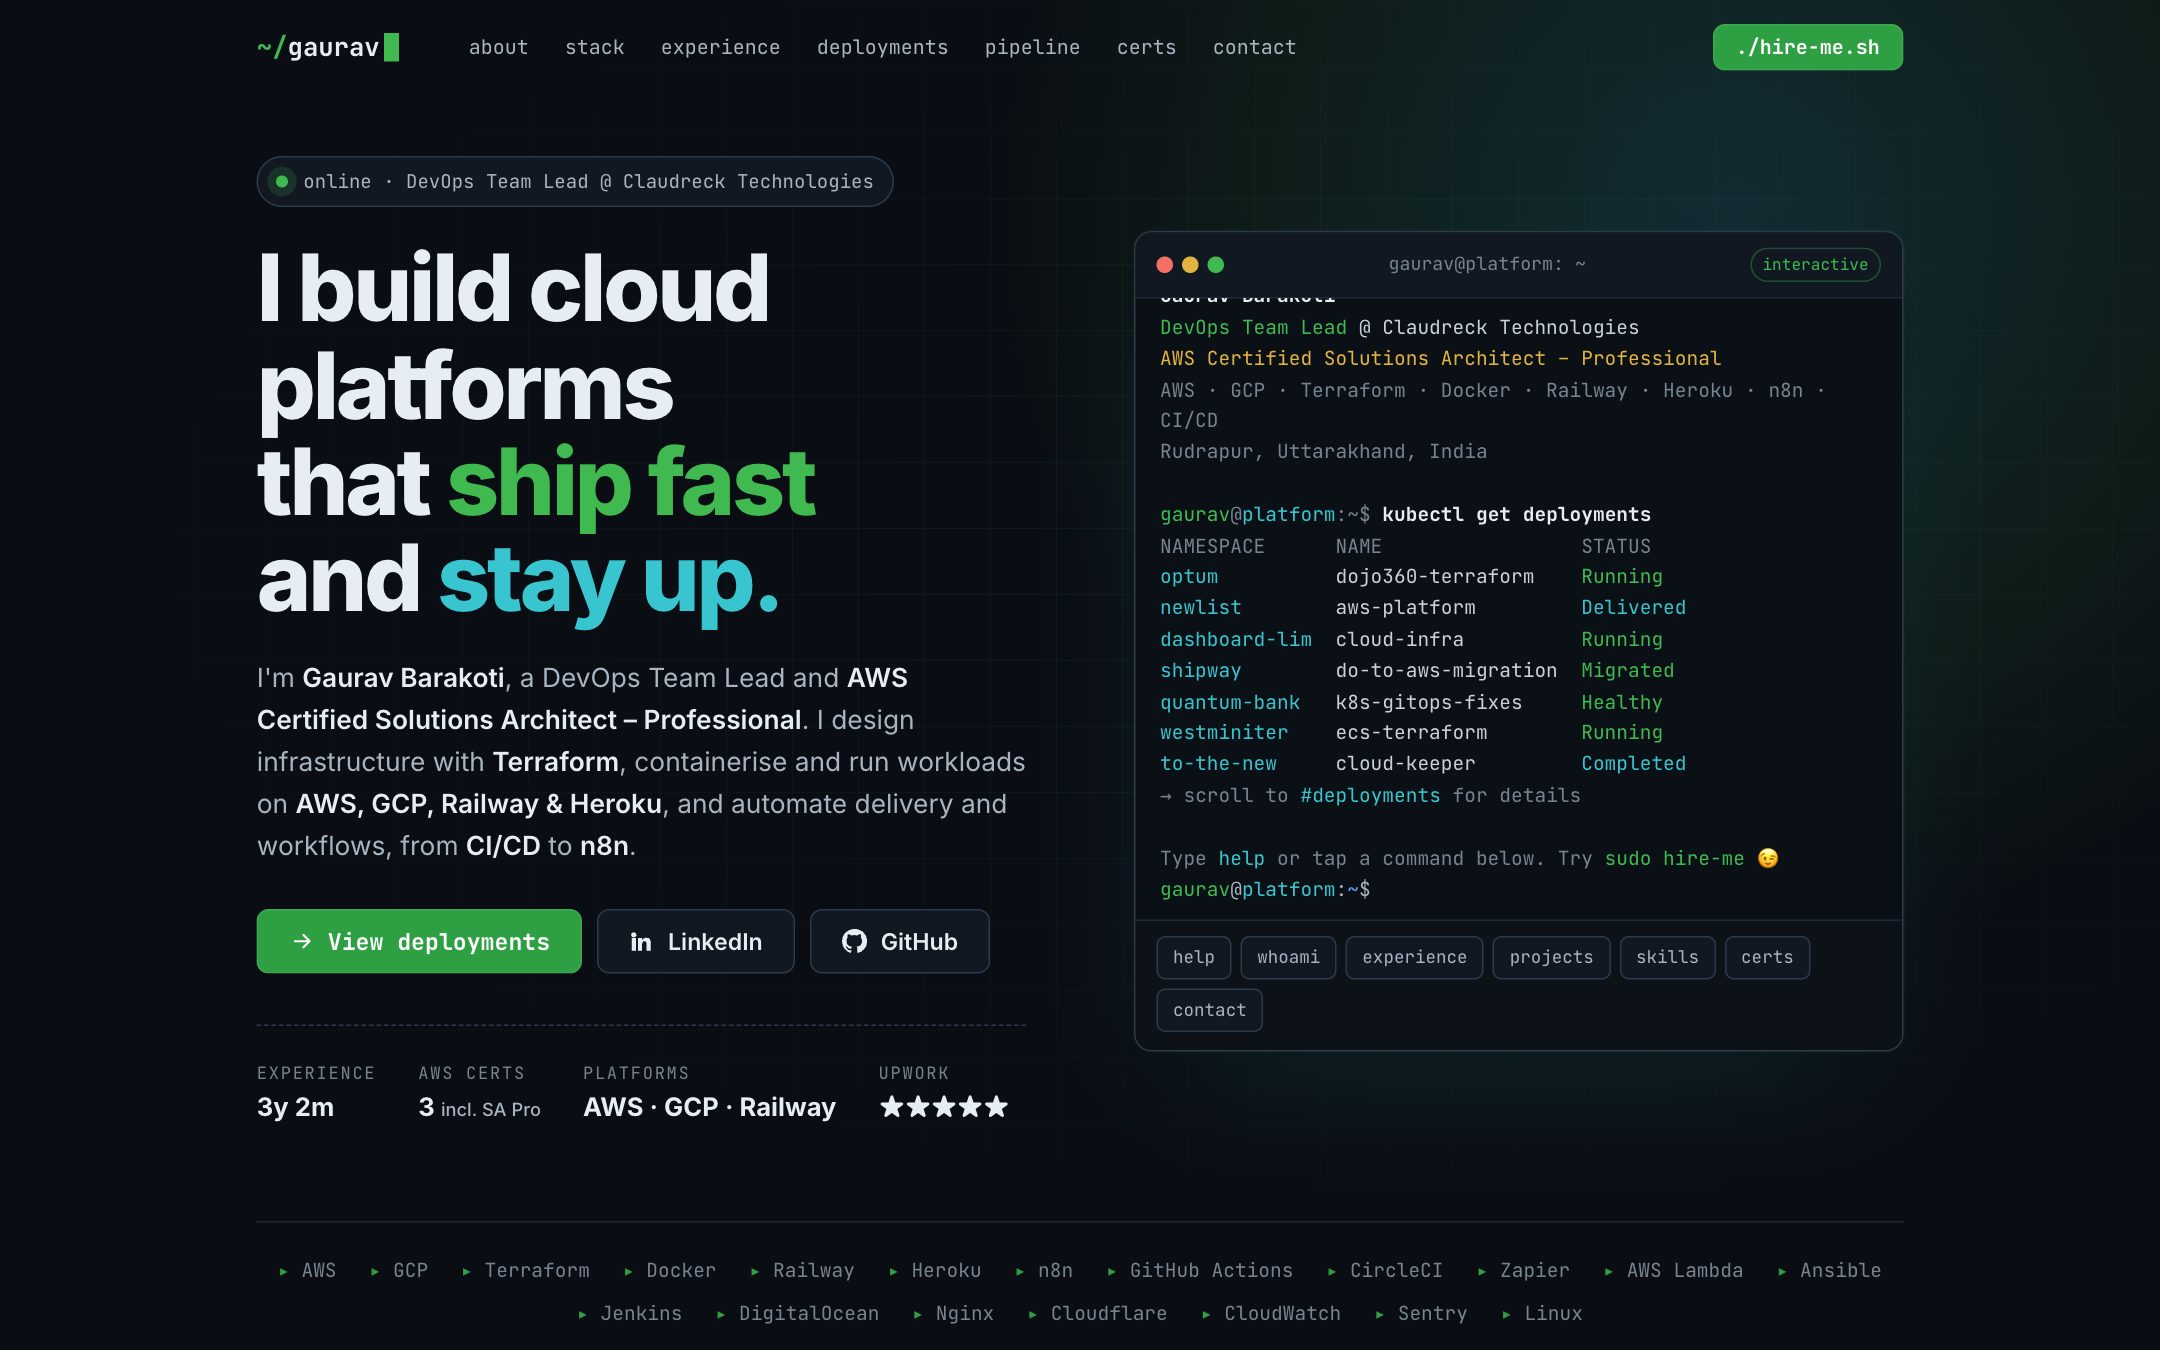
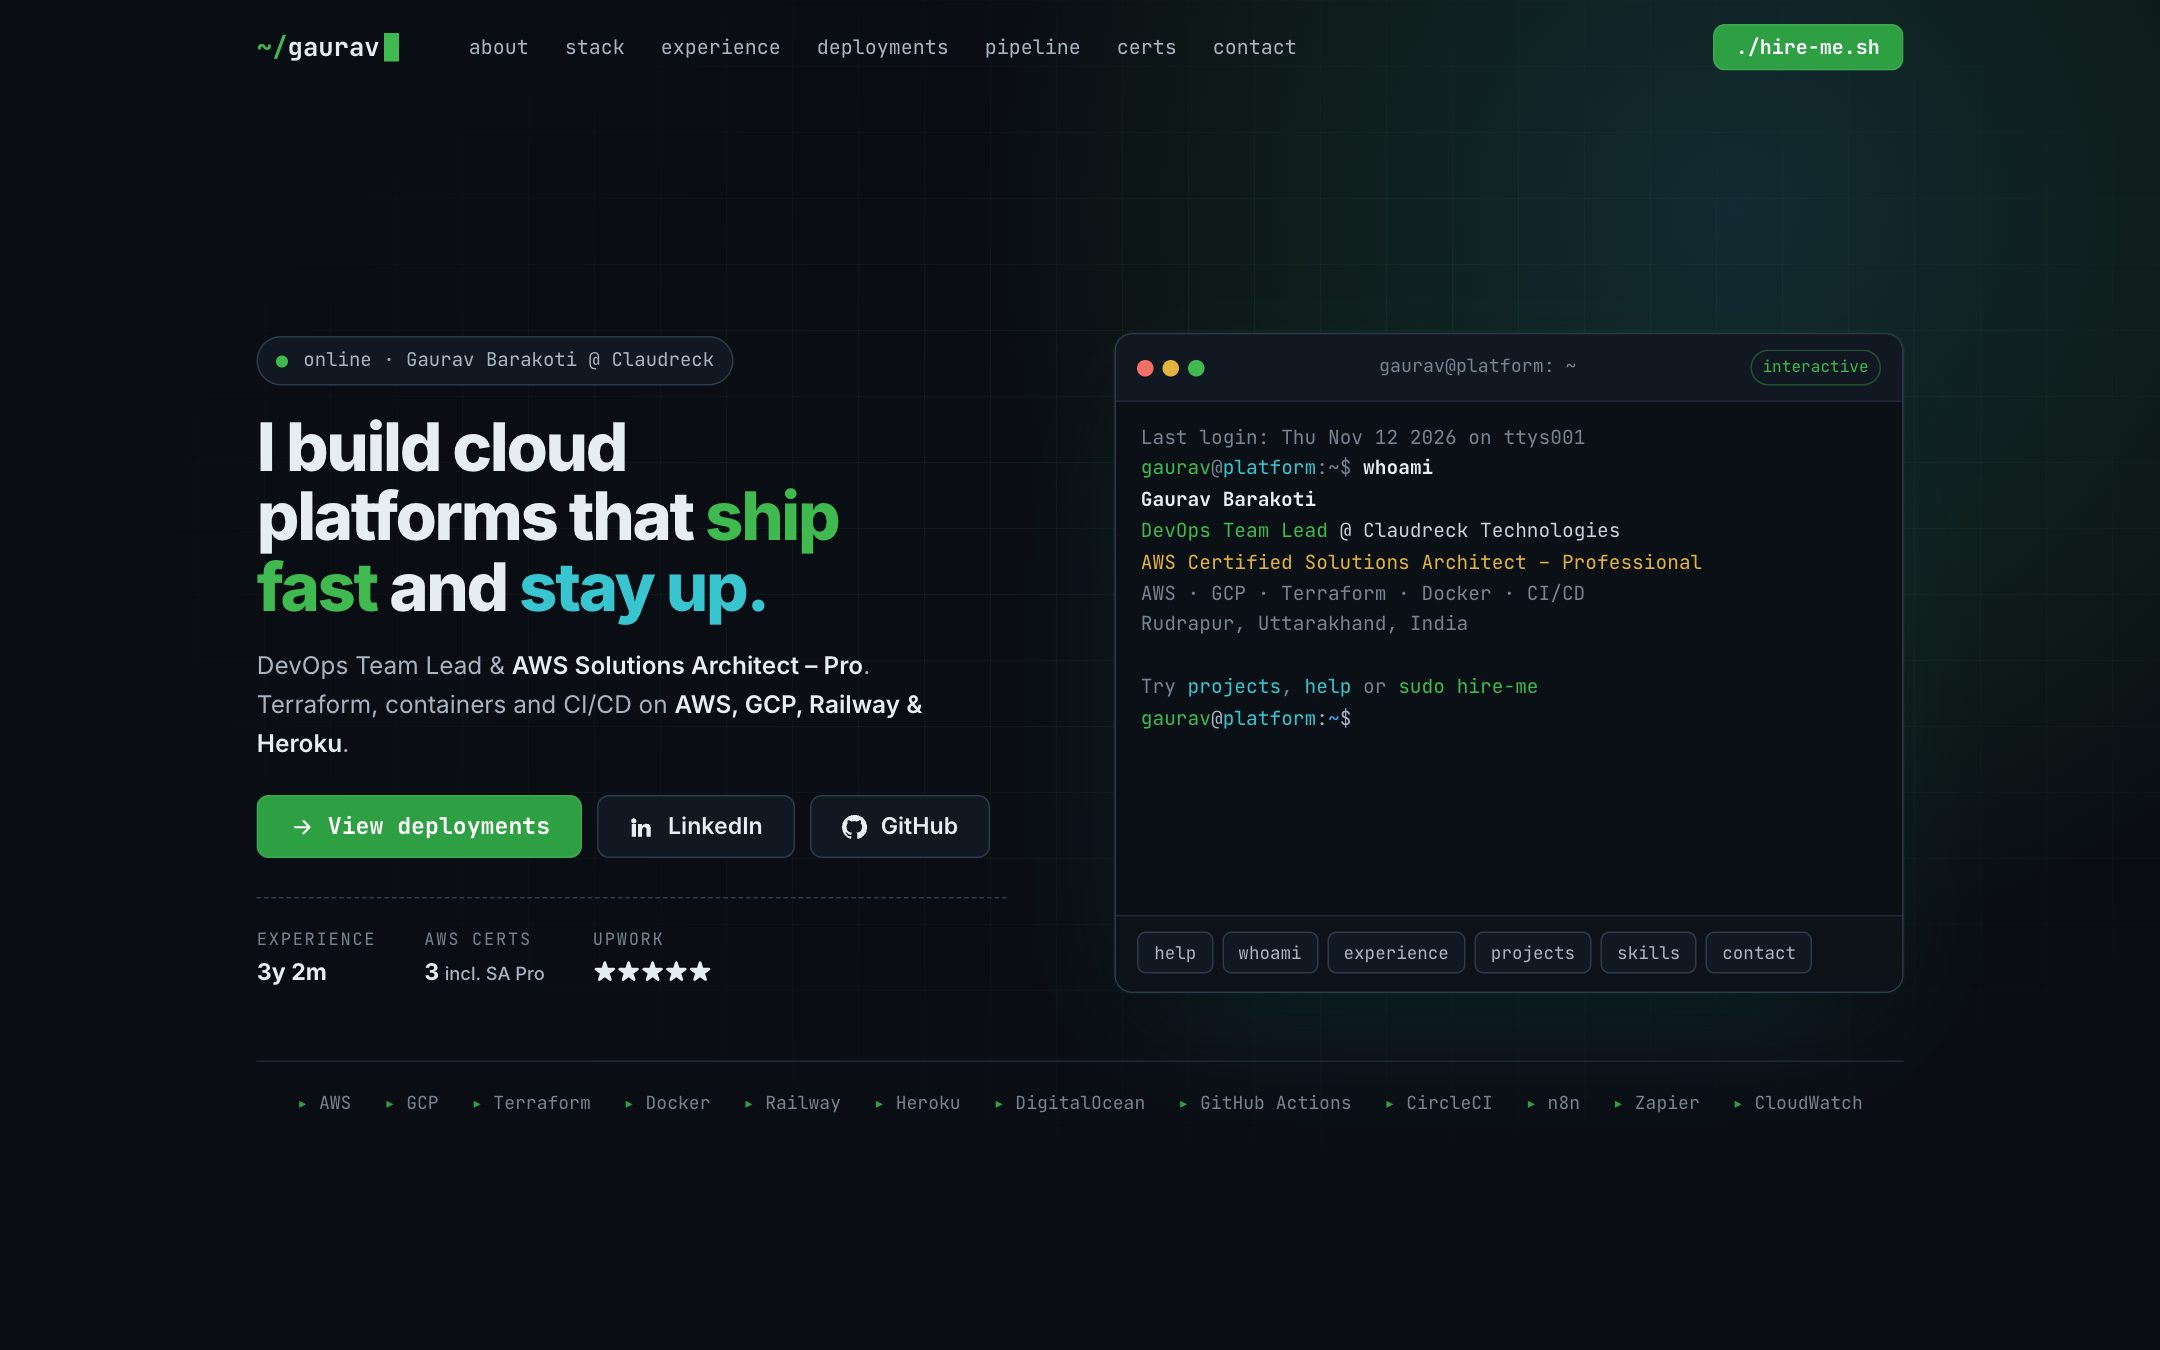
Compact hero: smaller headline, shorter intro, lighter terminal

diff --git a/assets/css/style.css b/assets/css/style.css
@@ -110,19 +110,19 @@ svg .fill { fill: currentColor; stroke: none; }
   mask-image: radial-gradient(ellipse 75% 65% at 60% 40%, #000 25%, transparent 75%);
 }
 .hero__glow { position: absolute; width: 70vw; height: 70vw; max-width: 1000px; max-height: 1000px; right: -15vw; top: -25vw; background: radial-gradient(circle, rgba(57,197,207,.16), rgba(63,185,80,.08) 45%, transparent 70%); }
-.hero__inner { display: grid; grid-template-columns: 1fr 1fr; gap: clamp(32px, 5vw, 88px); align-items: center; }
+.hero__inner { display: grid; grid-template-columns: 1fr 1.05fr; gap: clamp(32px, 5vw, 80px); align-items: center; }
 .status {
-  display: inline-flex; align-items: center; gap: 10px; padding: 6px 12px; border-radius: 999px;
-  border: 1px solid var(--border-2); background: var(--surface); font-family: var(--mono); font-size: .78rem; color: var(--text-2); margin-bottom: 22px;
+  display: inline-flex; align-items: center; gap: 10px; padding: 5px 12px; border-radius: 999px;
+  border: 1px solid var(--border-2); background: var(--surface); font-family: var(--mono); font-size: .78rem; color: var(--text-2); margin-bottom: 18px;
 }
 .status__dot { position: relative; width: 8px; height: 8px; border-radius: 50%; background: var(--green); box-shadow: 0 0 0 0 rgba(63,185,80,.6); animation: ping 2s infinite; }
 @keyframes ping { 70% { box-shadow: 0 0 0 8px rgba(63,185,80,0); } 100% { box-shadow: 0 0 0 0 rgba(63,185,80,0); } }
-.hero__title { font-size: clamp(2.3rem, 4.3vw, 4rem); font-weight: 800; letter-spacing: -0.035em; line-height: 1.04; text-wrap: balance; }
-.hero__lead { margin-top: 20px; max-width: 36rem; color: var(--text-2); font-size: 1.08rem; }
-.hero__ctas { display: flex; flex-wrap: wrap; gap: 10px; margin-top: 28px; }
-.facts { display: grid; grid-template-columns: repeat(4, auto); justify-content: start; gap: 10px 28px; margin-top: 34px; padding-top: 22px; border-top: 1px dashed var(--border-2); }
+.hero__title { font-size: clamp(2rem, 3.1vw, 2.9rem); font-weight: 800; letter-spacing: -0.035em; line-height: 1.04; text-wrap: balance; }
+.hero__lead { margin-top: 16px; max-width: 30rem; color: var(--text-2); font-size: 1rem; }
+.hero__ctas { display: flex; flex-wrap: wrap; gap: 10px; margin-top: 22px; }
+.facts { display: grid; grid-template-columns: repeat(3, auto); justify-content: start; gap: 10px 32px; margin-top: 26px; padding-top: 18px; border-top: 1px dashed var(--border-2); }
 .facts dt { font-family: var(--mono); font-size: .7rem; color: var(--muted); text-transform: uppercase; letter-spacing: .1em; }
-.facts dd { font-weight: 700; font-size: 1.05rem; }
+.facts dd { font-weight: 700; font-size: .95rem; }
 .facts small { font-weight: 500; font-size: .75rem; color: var(--text-2); }
 
 /* Terminal */
@@ -134,7 +134,7 @@ svg .fill { fill: currentColor; stroke: none; }
 .term__dots i:nth-child(3) { background: #3fb950; }
 .term__title { flex: 1; text-align: center; font-family: var(--mono); font-size: .75rem; color: var(--muted); }
 .term__hint { font-family: var(--mono); font-size: .66rem; color: var(--green); border: 1px solid rgba(63,185,80,.35); padding: 2px 7px; border-radius: 999px; }
-.term__body { height: clamp(300px, 46vh, 440px); overflow-y: auto; overflow-x: auto; padding: 14px 16px 10px; font-family: var(--mono); font-size: .8rem; line-height: 1.6; color: #c9d1d9; overscroll-behavior: contain; cursor: text; scrollbar-width: thin; scrollbar-color: var(--border-2) transparent; }
+.term__body { height: clamp(260px, 38vh, 360px); overflow-y: auto; overflow-x: auto; padding: 14px 16px 10px; font-family: var(--mono); font-size: .8rem; line-height: 1.6; color: #c9d1d9; overscroll-behavior: contain; cursor: text; scrollbar-width: thin; scrollbar-color: var(--border-2) transparent; }
 .term__body:focus-visible { outline-offset: -2px; }
 #termOut > div { white-space: pre-wrap; word-break: break-word; }
 #termOut > div.nw { white-space: pre; word-break: normal; }
@@ -155,7 +155,7 @@ svg .fill { fill: currentColor; stroke: none; }
 .term__chips button { padding: 4px 10px; border-radius: 6px; border: 1px solid var(--border-2); background: var(--surface); font-family: var(--mono); font-size: .72rem; color: var(--text-2); transition: color .2s, border-color .2s; }
 .term__chips button:hover { color: var(--green); border-color: var(--green); }
 
-.marquee { display: flex; flex-wrap: wrap; justify-content: center; gap: 8px 22px; margin-top: clamp(40px, 7vh, 72px); padding-top: 22px; border-top: 1px solid var(--border); font-family: var(--mono); font-size: .8rem; color: var(--muted); }
+.marquee { display: flex; flex-wrap: wrap; justify-content: center; gap: 8px 22px; margin-top: clamp(32px, 5vh, 56px); padding-top: 18px; border-top: 1px solid var(--border); font-family: var(--mono); font-size: .74rem; color: var(--muted); }
 .marquee li::before { content: "▸ "; color: var(--green-2); }
 
 /* ---------- Sections ---------- */
@@ -336,10 +336,10 @@ svg .fill { fill: currentColor; stroke: none; }
 @media (max-width: 680px) {
   .nav__cta { display: none; }
   .hero { padding-top: calc(var(--nav-h) + 24px); }
-  .hero__title { font-size: clamp(2.1rem, 9vw, 2.6rem); }
-  .facts { grid-template-columns: 1fr 1fr; }
+  .hero__title { font-size: clamp(1.8rem, 8vw, 2.2rem); }
+  .facts { grid-template-columns: repeat(3, auto); gap: 10px 22px; }
   .hero__ctas .btn { flex: 1 1 auto; }
-  .term__body { height: 320px; font-size: .74rem; }
+  .term__body { height: 280px; font-size: .74rem; }
   .term__hint { display: none; }
   .caps { grid-template-columns: 1fr; }
   .stack { grid-template-columns: 1fr; }

diff --git a/index.html b/index.html
@@ -48,14 +48,12 @@
       <div class="hero__bg" aria-hidden="true"><div class="hero__grid"></div><div class="hero__glow"></div></div>
       <div class="wrap hero__inner">
         <div class="hero__copy">
-          <p class="status"><span class="status__dot"></span> online · DevOps Team Lead @ Claudreck Technologies</p>
+          <p class="status"><span class="status__dot"></span> online · Gaurav Barakoti @ Claudreck</p>
           <h1 class="hero__title">
             I build cloud platforms that <span class="hl">ship fast</span> and <span class="hl hl--2">stay up.</span>
           </h1>
           <p class="hero__lead">
-            I'm <strong>Gaurav Barakoti</strong>, a DevOps Team Lead and <strong>AWS Certified Solutions Architect – Professional</strong>.
-            I design infrastructure with <strong>Terraform</strong>, containerise and run workloads on <strong>AWS, GCP, Railway &amp; Heroku</strong>,
-            and automate delivery and workflows, from <strong>CI/CD</strong> to <strong>n8n</strong>.
+            DevOps Team Lead &amp; <strong>AWS Solutions Architect – Pro</strong>. Terraform, containers and CI/CD on <strong>AWS, GCP, Railway &amp; Heroku</strong>.
           </p>
           <div class="hero__ctas">
             <a class="btn btn--primary" href="#deployments">
@@ -74,8 +72,7 @@
           <dl class="facts">
             <div><dt>experience</dt><dd><span id="uptime">3y+</span></dd></div>
             <div><dt>aws certs</dt><dd>3 <small>incl. SA Pro</small></dd></div>
-            <div><dt>platforms</dt><dd>AWS · GCP · Railway</dd></div>
-            <div><dt>upwork</dt><dd>★★★★★</dd></div>
+                        <div><dt>upwork</dt><dd>★★★★★</dd></div>
           </dl>
         </div>
 
@@ -99,7 +96,6 @@
             <button data-cmd="experience">experience</button>
             <button data-cmd="projects">projects</button>
             <button data-cmd="skills">skills</button>
-            <button data-cmd="certs">certs</button>
             <button data-cmd="contact">contact</button>
           </div>
         </div>
@@ -107,7 +103,7 @@
 
       <div class="wrap">
         <ul class="marquee" aria-label="Technologies">
-          <li>AWS</li><li>GCP</li><li>Terraform</li><li>Docker</li><li>Railway</li><li>Heroku</li><li>n8n</li><li>GitHub Actions</li><li>CircleCI</li><li>Zapier</li><li>AWS Lambda</li><li>Ansible</li><li>Jenkins</li><li>DigitalOcean</li><li>Nginx</li><li>Cloudflare</li><li>CloudWatch</li><li>Sentry</li><li>Linux</li>
+          <li>AWS</li><li>GCP</li><li>Terraform</li><li>Docker</li><li>Railway</li><li>Heroku</li><li>DigitalOcean</li><li>GitHub Actions</li><li>CircleCI</li><li>n8n</li><li>Zapier</li><li>CloudWatch</li>
         </ul>
       </div>
     </section>

diff --git a/assets/js/main.js b/assets/js/main.js
@@ -110,7 +110,7 @@
       [['Gaurav Barakoti', 't-b']],
       [['DevOps Team Lead', 't-g'], [' @ Claudreck Technologies']],
       [['AWS Certified Solutions Architect – Professional', 't-y']],
-      [['AWS · GCP · Terraform · Docker · Railway · Heroku · n8n · CI/CD', 't-m']],
+      [['AWS · GCP · Terraform · Docker · CI/CD', 't-m']],
       [['Rudrapur, Uttarakhand, India', 't-m']],
     ],
     experience: () => [
@@ -233,9 +233,7 @@
   const intro = async () => {
     print([['Last login: ', 't-m'], [new Date().toDateString(), 't-m'], [' on ttys001', 't-m']]);
     await typeAndRun('whoami');
-    await sleep(250);
-    await typeAndRun('kubectl get deployments');
-    print([['Type ', 't-m'], ['help', 't-k'], [' or tap a command below. Try ', 't-m'], ['sudo hire-me', 't-g'], [' 😉', 't-m']]);
+    print([['Try ', 't-m'], ['projects', 't-k'], [', ', 't-m'], ['help', 't-k'], [' or ', 't-m'], ['sudo hire-me', 't-g']]);
   };
   const tObs = new IntersectionObserver(es => { if (es[0].isIntersecting) { tObs.disconnect(); intro(); } }, { threshold: 0.3 });
   tObs.observe($('#term'));
